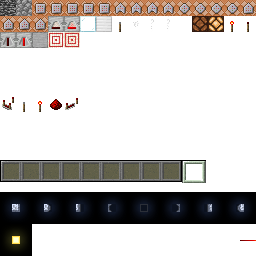
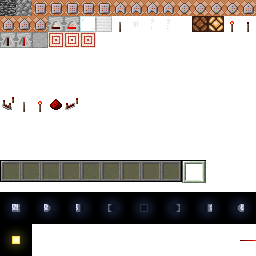
chore: replace command block with target

Changed region(s): [[0.1875, 0.125, 0.375, 0.1875]]

diff --git a/components/Canvas/view/Programs/GuiProgram.ts b/components/Canvas/view/Programs/GuiProgram.ts
@@ -207,10 +207,10 @@ export default class HotBarProgram extends Program {
     [tx, ty] = this.parent.renderer.textures.sampleGui('hotbar');
     [tx, ty] = [tx / 256, ty / 256];
     data.push(
-      x1, y1, -0.997, tx            , ty           , 
-      x1, y2, -0.997, tx            , ty + 22 / 256, 
-      x2, y2, -0.997, tx + 182 / 256, ty + 22 / 256, 
-      x2, y1, -0.997, tx + 182 / 256, ty           , 
+      x1 + 0.0005, y1 + 0.0005, -0.997, tx            , ty           , 
+      x1 + 0.0005, y2 - 0.0005, -0.997, tx            , ty + 22 / 256, 
+      x2 - 0.0005, y2 - 0.0005, -0.997, tx + 182 / 256, ty + 22 / 256, 
+      x2 - 0.0005, y1 + 0.0005, -0.997, tx + 182 / 256, ty           , 
     );
     
     const index = this.parent.controller.hotbarIndex;
@@ -219,10 +219,10 @@ export default class HotBarProgram extends Program {
     [tx, ty] = this.parent.renderer.textures.sampleGui('hotbar_selection');
     [tx, ty] = [tx / 256, ty / 256];
     data.push(
-      x1, y1, -0.998, tx           , ty           , 
-      x1, y2, -0.998, tx           , ty + 23 / 256, 
-      x2, y2, -0.998, tx + 24 / 256, ty + 23 / 256, 
-      x2, y1, -0.998, tx + 24 / 256, ty           , 
+      x1 + 0.0005, y1 + 0.0005, -0.998, tx           , ty           , 
+      x1 + 0.0005, y2 - 0.0005, -0.998, tx           , ty + 23 / 256, 
+      x2 - 0.0005, y2 - 0.0005, -0.998, tx + 24 / 256, ty + 23 / 256, 
+      x2 - 0.0005, y1 + 0.0005, -0.998, tx + 24 / 256, ty           , 
     );
 
     [x1, y1] = [width / 2 - 7.5 * pixel, height / 2 - 7.5 * pixel];
@@ -230,10 +230,10 @@ export default class HotBarProgram extends Program {
     [tx, ty] = this.parent.renderer.textures.sampleGui('crosshair');
     [tx, ty] = [tx / 256, ty / 256];
     data.push(
-      x1, y1, -0.999, tx           , ty           , 
-      x1, y2, -0.999, tx           , ty + 15 / 256, 
-      x2, y2, -0.999, tx + 15 / 256, ty + 15 / 256, 
-      x2, y1, -0.999, tx + 15 / 256, ty           , 
+      x1 + 0.0005, y1 + 0.0005, -0.999, tx           , ty           , 
+      x1 + 0.0005, y2 - 0.0005, -0.999, tx           , ty + 15 / 256, 
+      x2 - 0.0005, y2 - 0.0005, -0.999, tx + 15 / 256, ty + 15 / 256, 
+      x2 - 0.0005, y1 + 0.0005, -0.999, tx + 15 / 256, ty           , 
     );
 
     return data;

diff --git a/components/Canvas/view/ProgramManager.ts b/components/Canvas/view/ProgramManager.ts
@@ -1,7 +1,7 @@
 import type Controller from "../controller/Controller";
 import type Engine from "../model/Engine";
 import EnvironmentProgram from "./Programs/EnvironmentProgram";
-import HotBarProgram from "./Programs/HotBarProgram";
+import GuiProgram from "./Programs/GuiProgram";
 import LightProgram from "./Programs/LightProgram";
 import LineProgram from "./Programs/LineProgram";
 import MainProgram from "./Programs/MainProgram";
@@ -34,7 +34,7 @@ export default class ProgramManager {
         new MainProgram(this, this.gl),
         new EnvironmentProgram(this, this.gl),
         new LineProgram(this, this.gl),
-        new HotBarProgram(this, this.gl),
+        new GuiProgram(this, this.gl),
       ];
       this.ready = true;
     });
@@ -121,13 +121,13 @@ export default class ProgramManager {
   }
 
   public get sunAngle(): number {
-    // return Math.PI / 3.5;
+    return Math.PI / 3.5;
     const tick = this.engine.tick % 24000;
     return (tick * Math.PI) / 12000;
   }
 
   public get seasonAngle(): number {
-    // return 0;
+    return 0;
     const tick = this.engine.tick % (24000 * 96);
     return (tick * Math.PI) / (24000 * 48);
   }

diff --git a/components/Canvas/controller/Controller.ts b/components/Canvas/controller/Controller.ts
@@ -27,9 +27,9 @@ class Controller {
 
     this.activeKeys = new Set();
     this.hotbar = preLoadData?.availableBlocks ?? [
-      BlockType.CommandBlock,
       BlockType.IronBlock,
       BlockType.Glass,
+      BlockType.Target,
       BlockType.RedstoneDust,
       BlockType.RedstoneTorch,
       BlockType.RedstoneRepeater,
